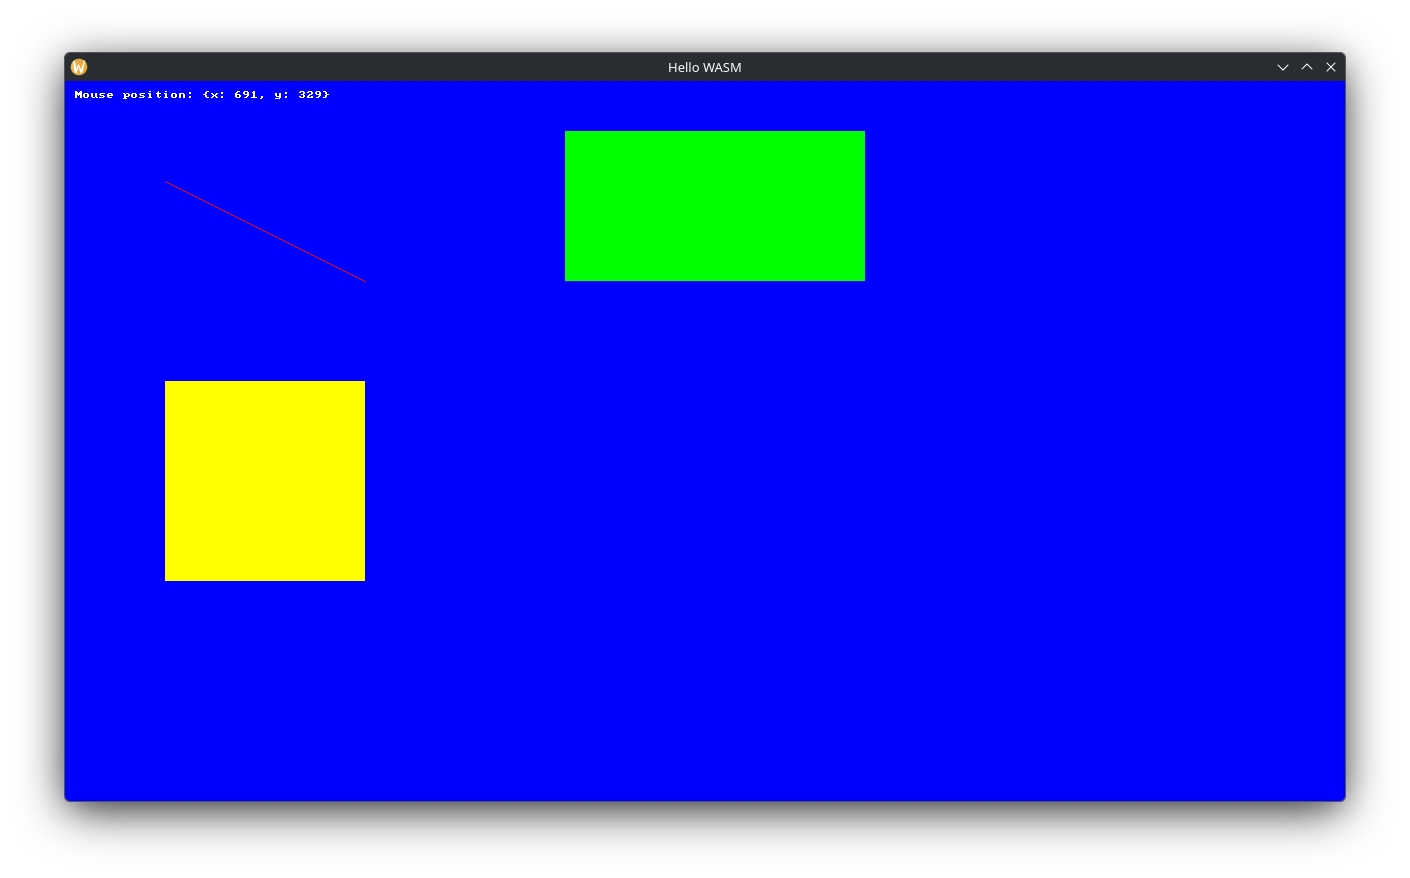
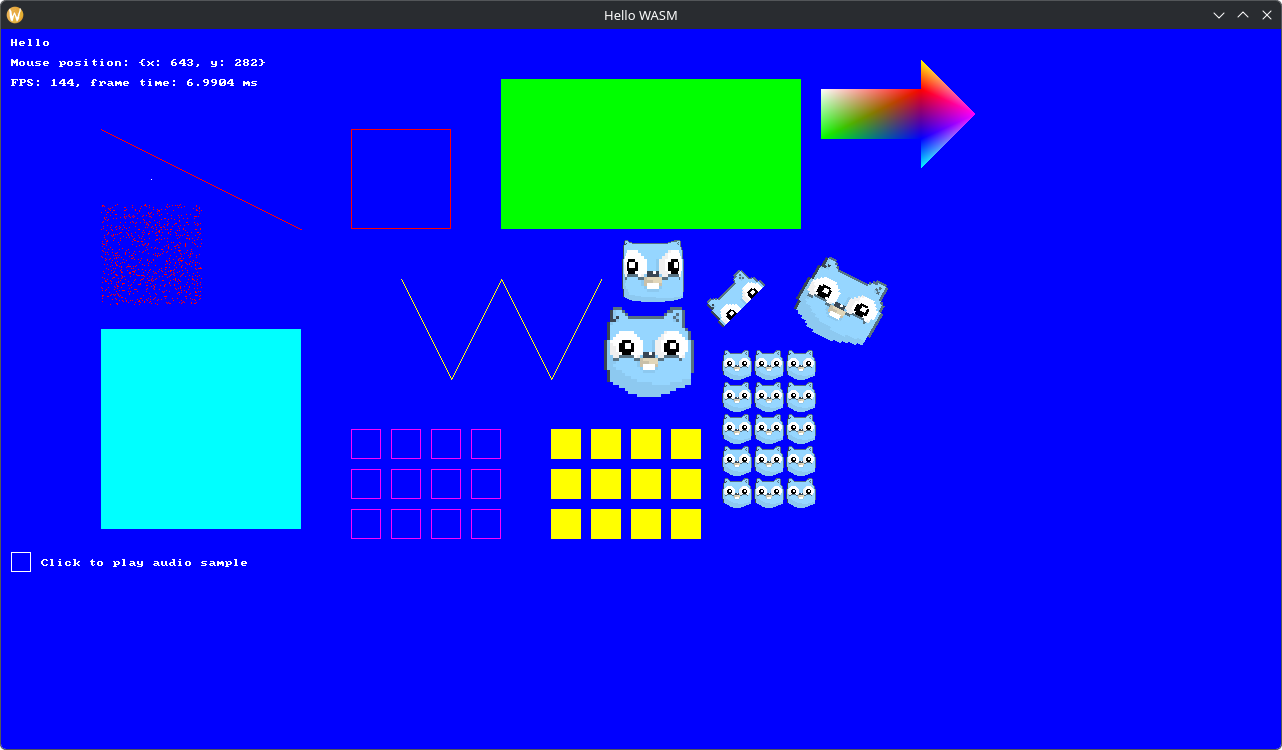
Added nil checks, updated readme

diff --git a/sdl/init_wasm.go b/sdl/init_wasm.go
@@ -11,7 +11,7 @@ import (
 )
 
 var bridge js.Value
-var structToSDLPointer = make(map[unsafe.Pointer]int) // Used to translate structs into SDL pointers, not used for opaque structs
+var structToSDLPointer = make(map[unsafe.Pointer]int) // Used to translate structs into SDL pointers, not used with opaque structs
 
 func init() {
 	runtime.LockOSThread()
@@ -161,8 +161,8 @@ func init() {
 	sdlCreateProperties = func() PropertiesID {
 		return PropertiesID(bridge.Call("SDL_CreateProperties").Int())
 	}
-	sdlCreateRenderer = func(window *Window, b *byte) *Renderer {
-		res := bridge.Call("SDL_CreateRenderer", unsafe.Pointer(window), convert.ToString(b)).Int()
+	sdlCreateRenderer = func(window *Window, name *byte) *Renderer {
+		res := bridge.Call("SDL_CreateRenderer", unsafe.Pointer(window), convert.ToString(name)).Int()
 		if res == 0 {
 			return nil
 		}
@@ -213,8 +213,12 @@ func init() {
 		res := bridge.Call("SDL_CreateWindowAndRenderer", title, width, height, uint32(flags), 0, 0)
 		result := res.Index(0).Int()
 		if result != 0 {
-			*window = (*Window)(unsafe.Pointer(uintptr(res.Index(1).Int())))
-			*renderer = (*Renderer)(unsafe.Pointer(uintptr(res.Index(2).Int())))
+			if window != nil {
+				*window = (*Window)(unsafe.Pointer(uintptr(res.Index(1).Int())))
+			}
+			if renderer != nil {
+				*renderer = (*Renderer)(unsafe.Pointer(uintptr(res.Index(2).Int())))
+			}
 		}
 		return result != 0
 	}
@@ -846,12 +850,18 @@ func init() {
 		if res.Index(0).Int() == 0 {
 			return false
 		}
-		*spec = AudioSpec{}
-		audioSpecBytes := unsafe.Slice((*byte)(unsafe.Pointer(spec)), unsafe.Sizeof(AudioSpec{}))
-		memoryView := bridge.Call("copyBytes", res.Index(1), unsafe.Sizeof(AudioSpec{}))
-		js.CopyBytesToGo(audioSpecBytes, memoryView)
-		*audioBuf = (*uint8)(unsafe.Pointer(uintptr(res.Index(2).Int())))
-		*audioLen = uint32(res.Index(3).Int())
+		if spec != nil {
+			*spec = AudioSpec{}
+			audioSpecBytes := unsafe.Slice((*byte)(unsafe.Pointer(spec)), unsafe.Sizeof(AudioSpec{}))
+			memoryView := bridge.Call("copyBytes", res.Index(1), unsafe.Sizeof(AudioSpec{}))
+			js.CopyBytesToGo(audioSpecBytes, memoryView)
+		}
+		if audioBuf != nil {
+			*audioBuf = (*uint8)(unsafe.Pointer(uintptr(res.Index(2).Int())))
+		}
+		if audioLen != nil {
+			*audioLen = uint32(res.Index(3).Int())
+		}
 		structToSDLPointer[unsafe.Pointer(spec)] = res.Index(1).Int()
 		return res.Index(0).Int() != 0
 	}
@@ -943,7 +953,9 @@ func init() {
 	// // purego.RegisterLibFunc(&sdlPlayHapticRumble, lib, "SDL_PlayHapticRumble")
 	sdlPollEvent = func(event *Event) bool {
 		res := bridge.Call("SDL_PollEvent", unsafe.Pointer(event))
-		js.CopyBytesToGo(unsafe.Slice((*byte)(unsafe.Pointer(event)), 128), res.Index(1))
+		if event != nil {
+			js.CopyBytesToGo(unsafe.Slice((*byte)(unsafe.Pointer(event)), 128), res.Index(1))
+		}
 		return res.Index(0).Int() != 0
 	}
 	// // purego.RegisterLibFunc(&sdlPopGPUDebugGroup, lib, "SDL_PopGPUDebugGroup")
@@ -1027,21 +1039,40 @@ func init() {
 		return bridge.Call("SDL_RenderDebugTextFormat", unsafe.Pointer(renderer), x, y, text).Int() != 0
 	}
 	sdlRenderFillRect = func(renderer *Renderer, rect *FRect) bool {
-		return bridge.Call("SDL_RenderFillRect", unsafe.Pointer(renderer), rect.X, rect.Y, rect.W, rect.H).Int() != 0
+		var x, y, w, h any = nil, nil, nil, nil
+		if rect != nil {
+			x, y, w, h = rect.X, rect.Y, rect.W, rect.H
+		}
+		return bridge.Call("SDL_RenderFillRect", unsafe.Pointer(renderer), x, y, w, h).Int() != 0
 	}
 	sdlRenderFillRects = func(renderer *Renderer, rects []FRect) bool {
-		r := unsafe.Slice((*byte)(unsafe.Pointer(&rects[0])), len(rects)*int(unsafe.Sizeof(FRect{}))) // Treat rects slice as byte array
-		js.CopyBytesToJS(memoryBufferView, r)                                                         // Copy the bytes over
-		return bridge.Call("SDL_RenderFillRects", unsafe.Pointer(renderer), len(rects)).Int() != 0
+		numRects := len(rects)
+		if rects != nil {
+			r := unsafe.Slice((*byte)(unsafe.Pointer(&rects[0])), numRects*int(unsafe.Sizeof(FRect{}))) // Treat rects slice as byte array
+			js.CopyBytesToJS(memoryBufferView, r)                                                       // Copy the bytes over
+		} else {
+			numRects = -1
+		}
+		return bridge.Call("SDL_RenderFillRects", unsafe.Pointer(renderer), numRects).Int() != 0
 	}
 	sdlRenderGeometry = func(renderer *Renderer, texture *Texture, vertices []Vertex, indices []int32) bool {
-		v := unsafe.Slice((*byte)(unsafe.Pointer(&vertices[0])), len(vertices)*int(unsafe.Sizeof(Vertex{}))) // Treat vertices slice as byte array
-		i := unsafe.Slice((*byte)(unsafe.Pointer(&indices[0])), len(indices)*int(unsafe.Sizeof(int32(0))))   // Treat indices slice as byte array
-		tmp := make([]byte, len(v)+len(i))                                                                   // Create temporary slice that will hold vertices and indices
+		var v, i []byte
+		numVertices, numIndices := len(vertices), len(indices)
+		if vertices != nil {
+			v = unsafe.Slice((*byte)(unsafe.Pointer(&vertices[0])), len(vertices)*int(unsafe.Sizeof(Vertex{}))) // Treat vertices slice as byte array
+		} else {
+			numVertices = -1
+		}
+		if indices != nil {
+			i = unsafe.Slice((*byte)(unsafe.Pointer(&indices[0])), len(indices)*int(unsafe.Sizeof(int32(0)))) // Treat indices slice as byte array
+		} else {
+			numIndices = -1
+		}
+		tmp := make([]byte, len(v)+len(i)) // Create temporary slice that will hold vertices and indices
 		copy(tmp, v)
 		copy(tmp[len(v):], i)
 		js.CopyBytesToJS(memoryBufferView, tmp) // Copy the bytes over
-		return bridge.Call("SDL_RenderGeometry", unsafe.Pointer(renderer), structToSDLPointer[unsafe.Pointer(texture)], len(vertices), len(indices), len(v)).Int() != 0
+		return bridge.Call("SDL_RenderGeometry", unsafe.Pointer(renderer), structToSDLPointer[unsafe.Pointer(texture)], numVertices, numIndices, len(v)).Int() != 0
 	}
 	// sdlRenderGeometryRawPtr := shared.Get(lib, "SDL_RenderGeometryRaw")
 	// sdlRenderGeometryRaw = func(renderer *Renderer, texture *Texture, xy []FPoint, color []FColor, uv []FPoint, indices []int32) bool {
@@ -1085,29 +1116,48 @@ func init() {
 		return bridge.Call("SDL_RenderLine", unsafe.Pointer(renderer), x1, y1, x2, y2).Int() != 0
 	}
 	sdlRenderLines = func(renderer *Renderer, points []FPoint) bool {
-		p := unsafe.Slice((*byte)(unsafe.Pointer(&points[0])), len(points)*int(unsafe.Sizeof(FPoint{}))) // Treat points slice as byte array
-		js.CopyBytesToJS(memoryBufferView, p)                                                            // Copy the bytes over
-		return bridge.Call("SDL_RenderLines", unsafe.Pointer(renderer), len(points)).Int() != 0
+		numPoints := len(points)
+		if points != nil {
+			p := unsafe.Slice((*byte)(unsafe.Pointer(&points[0])), numPoints*int(unsafe.Sizeof(FPoint{}))) // Treat points slice as byte array
+			js.CopyBytesToJS(memoryBufferView, p)                                                          // Copy the bytes over
+		} else {
+			numPoints = -1
+		}
+		return bridge.Call("SDL_RenderLines", unsafe.Pointer(renderer), numPoints).Int() != 0
 	}
 	sdlRenderPoint = func(renderer *Renderer, x, y float32) bool {
 		return bridge.Call("SDL_RenderPoint", unsafe.Pointer(renderer), x, y).Int() != 0
 	}
 	sdlRenderPoints = func(renderer *Renderer, points []FPoint) bool {
-		r := unsafe.Slice((*byte)(unsafe.Pointer(&points[0])), len(points)*int(unsafe.Sizeof(FPoint{}))) // Treat points slice as byte array
-		js.CopyBytesToJS(memoryBufferView, r)                                                            // Copy the bytes over
-		return bridge.Call("SDL_RenderPoints", unsafe.Pointer(renderer), len(points)).Int() != 0
+		numPoints := len(points)
+		if points != nil {
+			r := unsafe.Slice((*byte)(unsafe.Pointer(&points[0])), numPoints*int(unsafe.Sizeof(FPoint{}))) // Treat points slice as byte array
+			js.CopyBytesToJS(memoryBufferView, r)                                                          // Copy the bytes over
+		} else {
+			numPoints = -1
+		}
+		return bridge.Call("SDL_RenderPoints", unsafe.Pointer(renderer), numPoints).Int() != 0
 	}
 	sdlRenderPresent = func(renderer *Renderer) bool {
 		return bridge.Call("SDL_RenderPresent", unsafe.Pointer(renderer)).Int() != 0
 	}
 	// purego.RegisterLibFunc(&sdlRenderReadPixels, lib, "SDL_RenderReadPixels")
 	sdlRenderRect = func(renderer *Renderer, rect *FRect) bool {
-		return bridge.Call("SDL_RenderRect", unsafe.Pointer(renderer), rect.X, rect.Y, rect.W, rect.H).Int() != 0
+		var x, y, w, h any = nil, nil, nil, nil
+		if rect != nil {
+			x, y, w, h = rect.X, rect.Y, rect.W, rect.H
+		}
+		return bridge.Call("SDL_RenderRect", unsafe.Pointer(renderer), x, y, w, h).Int() != 0
 	}
 	sdlRenderRects = func(renderer *Renderer, rects []FRect) bool {
-		r := unsafe.Slice((*byte)(unsafe.Pointer(&rects[0])), len(rects)*int(unsafe.Sizeof(FRect{}))) // Treat rects slice as byte array
-		js.CopyBytesToJS(memoryBufferView, r)                                                         // Copy the bytes over
-		return bridge.Call("SDL_RenderRects", unsafe.Pointer(renderer), len(rects)).Int() != 0
+		numRects := len(rects)
+		if rects != nil {
+			r := unsafe.Slice((*byte)(unsafe.Pointer(&rects[0])), numRects*int(unsafe.Sizeof(FRect{}))) // Treat rects slice as byte array
+			js.CopyBytesToJS(memoryBufferView, r)                                                       // Copy the bytes over
+		} else {
+			numRects = -1
+		}
+		return bridge.Call("SDL_RenderRects", unsafe.Pointer(renderer), numRects).Int() != 0
 	}
 	sdlRenderTexture = func(renderer *Renderer, texture *Texture, srcrect, dstrect *FRect) bool {
 		var srX, srY, srW, srH any
@@ -1138,19 +1188,25 @@ func init() {
 			drX, drY, drW, drH,
 		).Int() != 0
 	}
-	// sdlRenderTextureAffinePtr := shared.Get(lib, "SDL_RenderTextureAffine")
-	// sdlRenderTextureAffine = func(renderer *Renderer, texture *Texture, srcrect *FRect, origin, right, down *FPoint) bool {
-	// 	ret, _, _ := purego.SyscallN(
-	// 		sdlRenderTextureAffinePtr,
-	// 		uintptr(unsafe.Pointer(renderer)),
-	// 		uintptr(unsafe.Pointer(texture)),
-	// 		uintptr(unsafe.Pointer(srcrect)),
-	// 		uintptr(unsafe.Pointer(origin)),
-	// 		uintptr(unsafe.Pointer(right)),
-	// 		uintptr(unsafe.Pointer(down)))
-
-	// 	return byte(ret) != 0
-	// }
+	sdlRenderTextureAffine = func(renderer *Renderer, texture *Texture, srcrect *FRect, origin, right, down *FPoint) bool {
+		var srX, srY, srW, srH any
+		var p1X, p1Y, p2X, p2Y, p3X, p3Y any
+		if srcrect != nil {
+			srX, srY, srW, srH = srcrect.X, srcrect.Y, srcrect.W, srcrect.H
+		}
+		if origin != nil {
+			p1X, p1Y = origin.X, origin.Y
+		}
+		if right != nil {
+			p2X, p2Y = right.X, right.Y
+		}
+		if down != nil {
+			p3X, p3Y = down.X, down.Y
+		}
+		return bridge.Call("SDL_RenderTextureAffine", unsafe.Pointer(renderer), structToSDLPointer[unsafe.Pointer(texture)],
+			srX, srY, srW, srH,
+			p1X, p1Y, p2X, p2Y, p3X, p3Y).Int() != 0
+	}
 	sdlRenderTextureRotated = func(renderer *Renderer, texture *Texture, srcrect, dstrect *FRect, angle float64, center *FPoint, flip FlipMode) bool {
 		var srX, srY, srW, srH any
 		var drX, drY, drW, drH any

diff --git a/examples/wasm/main.go b/examples/wasm/main.go
@@ -18,12 +18,12 @@ var WASM_FRAME_TIME time.Duration = time.Microsecond * time.Duration(math.Floor(
 
 // For now the image gets embedded to allow texture creation on WASM, maybe there is other way?
 //
-//go:embed gopher-happy.bmp
+//go:embed assets/gopher-happy.bmp
 var gopherHappy []byte
 
 // For now the audio sample gets embedded so that it can be used on WASM, maybe there is other way?
 //
-//go:embed tone.wav
+//go:embed assets/tone.wav
 var tone []byte
 
 func main() {
@@ -233,6 +233,7 @@ func main() {
 		sdl.RenderTextureRotated(renderer, gopherTexture, &sdl.FRect{X: 0, Y: 0, W: 32, H: 16}, &sdl.FRect{X: 700, Y: 250, W: 64, H: 32}, -45, nil, sdl.FlipNone)
 		sdl.RenderTexture9Grid(renderer, gopherTexture, nil, 8, 8, 8, 8, 1, &sdl.FRect{X: 620, Y: 210, W: 64, H: 64})
 		sdl.RenderTextureTiled(renderer, gopherTexture, nil, 1, &sdl.FRect{X: 720, Y: 320, W: 96, H: 160})
+		sdl.RenderTextureAffine(renderer, gopherTexture, nil, &sdl.FPoint{X: 820, Y: 220}, &sdl.FPoint{X: 900, Y: 260}, &sdl.FPoint{X: 780, Y: 290})
 
 		// Geometry, an arrow
 		sdl.RenderGeometry(renderer, nil, []sdl.Vertex{

diff --git a/examples/wasm/README.md b/examples/wasm/README.md
@@ -3,18 +3,17 @@
 This example demonstrates how to compile **Go + SDL3** into WebAssembly (WASM).  
 The build process is currently designed for Linux. Windows users may need to adjust specific shell commands.
 
-One of the highlights of this setup is that the example app can be built for both PC and WASM **without changing any application code** — only the build command needs to be adjusted.  
 > [!WARNING]
 > This example is highly experimental and serves as a proof of concept. It is intended to be a foundation that can be expanded into a robust WASM build pipeline.  
 
 > [!NOTE]
-> Not all of the SDL functions are available in the WASM build, so some changes in the app may be necessary.  
+> Not all of the SDL functions are available for the WASM build - some functions are not supported.  
 
 
 ### Requirements
 
 * **Emscripten**: To build SDL3 to WASM, you need [Emscripten](https://emscripten.org/docs/getting_started/downloads.html) installed. Follow their getting started guide.  
-* **Local HTTP Server**: WASM applications cannot be run by simply opening `index.html`. You need a server to host the files. This example uses the `python` built-in HTTP server, but any server will work. To follow the example as is, you need `python` installed.  
+* **Local HTTP Server**: WASM applications cannot be run by simply opening `index.html`. You need a server to host the files. This example uses the `python` built-in HTTP server, but any server, or HTTP hosting service should work. To follow the example as is, you need `python` installed.  
 > [!Tip]
 > The HTTP server could be improved with hot-reloading by monitoring changes in .go files and automatically triggering the build script.
 
@@ -27,13 +26,15 @@ One of the highlights of this setup is that the example app can be built for bot
 
 ### How does it work? (`build.sh` explained)
 
-1. **SDL3 Library**: The SDL3 library is compiled to `sdl.wasm` via Emscripten.
+1. **SDL3**: The SDL3 library is compiled to `sdl.wasm` via Emscripten.
 2. **Go App**: The Go app is compiled to `go.wasm` using the standard Go build command.
 3. **Hosting**: Both files are hosted on a local HTTP server. To allow communication between `go.wasm` and `sdl.wasm`, a small JavaScript bridge (`sdl.js`) is used.
 4. **Go Runtime**: The `wasm_exec.js` file is required to instruct the browser on how to execute `go.wasm`. This file is copied from your Go installation.  
   *Note: The path to this file differs between Go versions 1.23 or older and Go 1.24+ (the build script uses "new" path).*
 5. **Communication Flow**: `go.wasm <-> sdl.js <-> sdl.wasm`  
   **Why the bridge?** WASM modules are isolated and cannot communicate directly. While the JavaScript bridge introduces a performance penalty, it is necessary in this build process. To eliminate the bridge, you would need to compile the Go app and SDL3 into a single .wasm file. This is currently not supported by the standard Go compiler, and I didn't have any luck when trying to compile it with TinyGo.  
+> [!Tip]
+> All of the compiled files are placed into `/build/` directory, ready to be compressed and distributed.
 
 
 ### Screenshots
@@ -43,3 +44,6 @@ PC:
 
 Browser (WASM):  
 ![Screenshot Browser](./screenshot_browser.png)
+
+[itch.io](https://abev08.itch.io/go-sdl3-into-wasm):  
+![Screenshot itch.io](./screenshot_itchio.png)